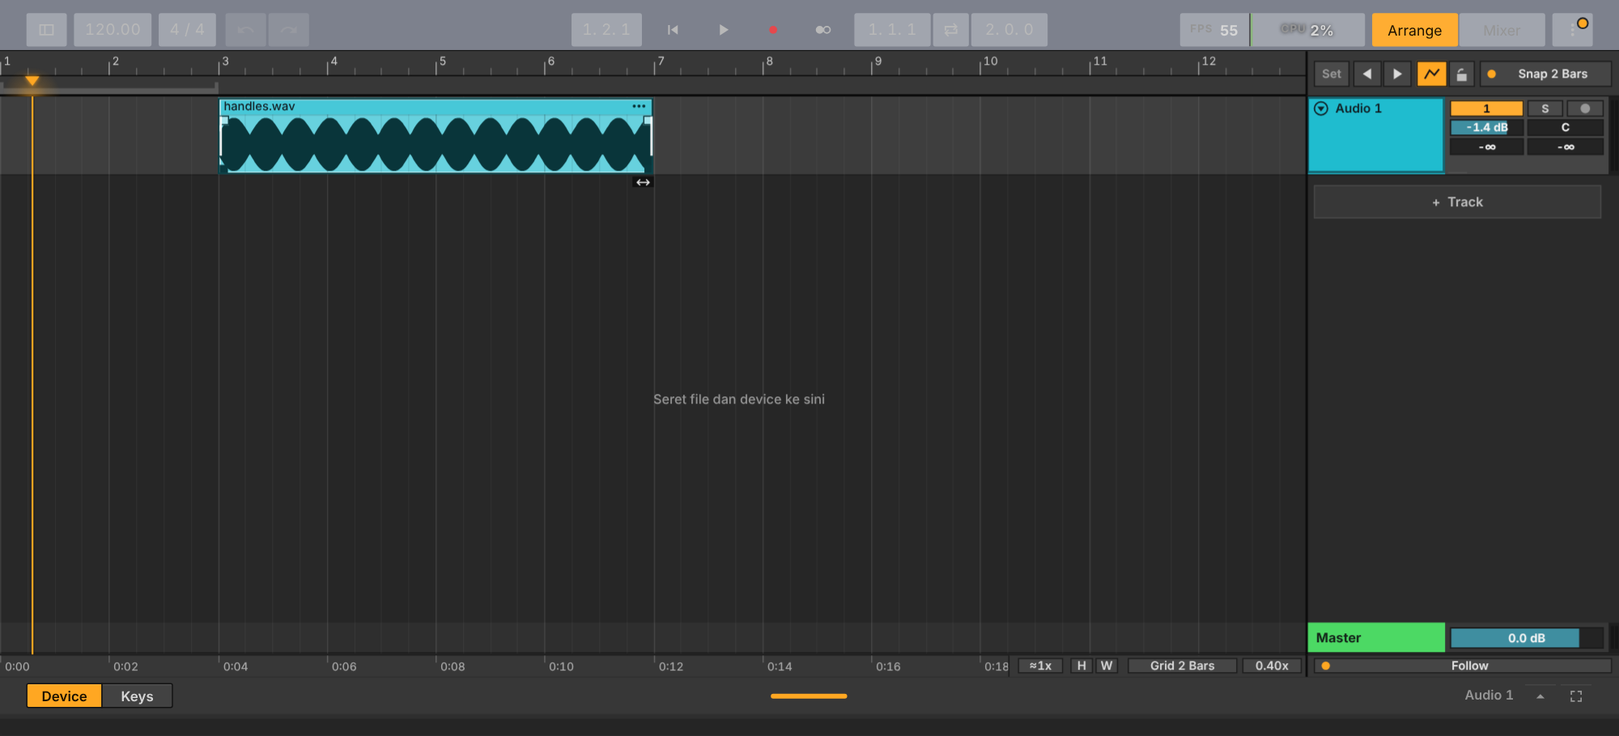
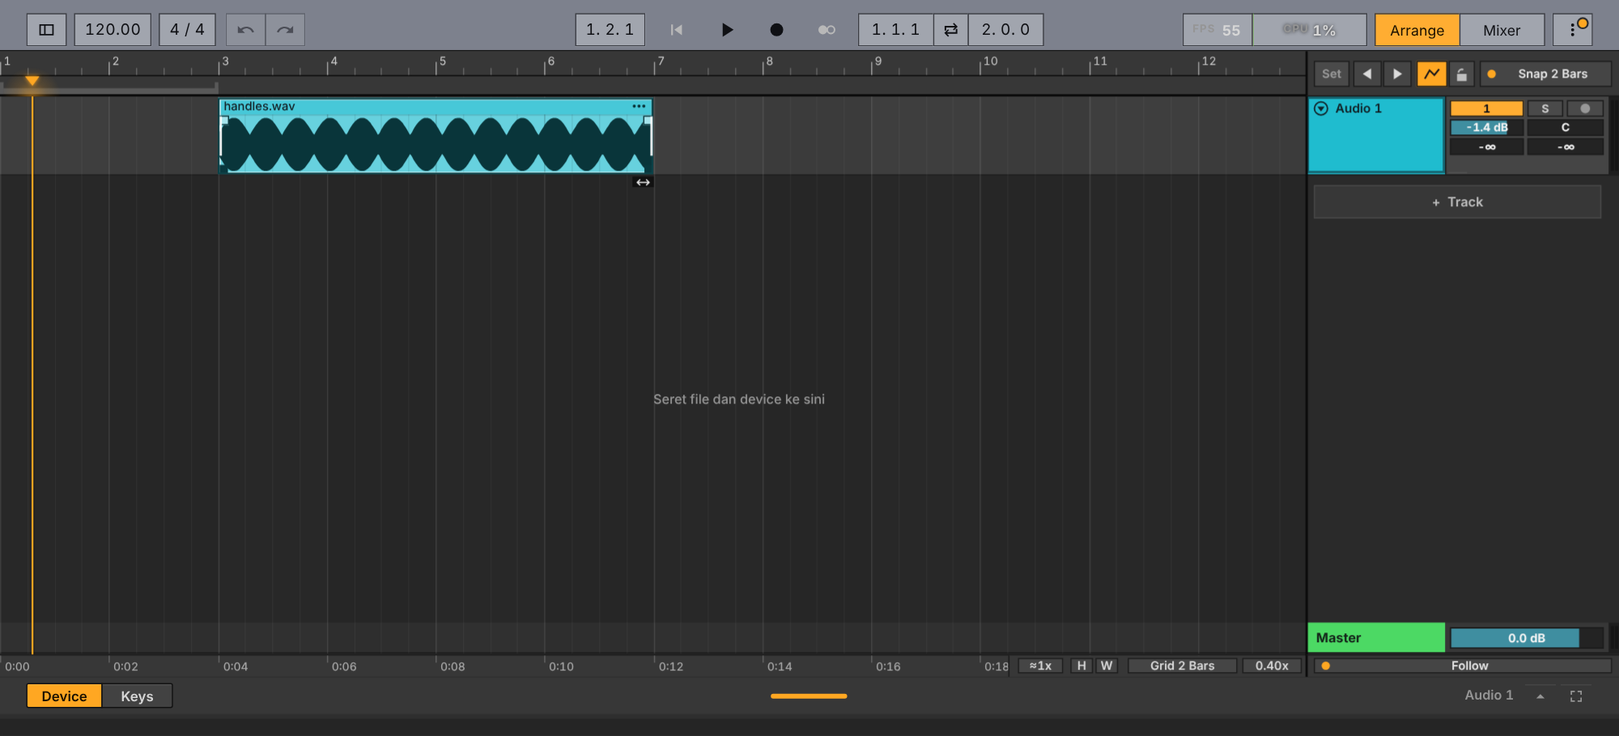
Light theme header and lines sampled from Live 12 light; Live 12 control bar fields in dark and light
Claude-Session: https://claude.ai/code/session_016R99TjSh2G5U2VqVgMNHhT

diff --git a/js/timeline.js b/js/timeline.js
@@ -358,13 +358,13 @@ function draw() {
     ctx.fillStyle = state.sel.track === i ? C('#333337') : state.tracks[i].kind === 'auto' ? C('#262628') : C('#2a2a2c'); ctx.fillRect(0, y, CW, h);   // automation lanes a shade darker (Live)
     const sn = subN(state.tracks[i]);
     if (sn) { const mh = rhMain(i), sh = SUBH(), L = P.subsOf(state.tracks[i]); for (let k = 0; k < sn; k++) { const sy = y + mh + k * sh; ctx.fillStyle = C('#262628'); ctx.fillRect(0, sy, CW, sh); if (L[k].mute) { ctx.fillStyle = 'rgba(0,0,0,.18)'; ctx.fillRect(0, sy, CW, sh); } ctx.fillStyle = C('#1a1a1c'); ctx.fillRect(0, sy - 1, CW, 1); } }   // sub-track rows: a shade darker, a thin line above each
-    ctx.fillStyle = C('#141416'); ctx.fillRect(0, y + h - 1, CW, 1);                     // Live 12 (refs/live12-official): a thin dark line between tracks
+    ctx.fillStyle = HD('--hd-line', '#141416'); ctx.fillRect(0, y + h - 1, CW, 1);                     // Live 12 (refs/live12-official): a thin dark line between tracks
   }
   const xl = [];                                                                       // captions of the Master / effect lanes, drawn after the grid
   for (const i of visRows()) { if (i < n || i >= nn) continue;                          // Master / effect track rows: no clips, they only mix
     const y = rowY(i), h = rh(i), x = xInfo(i);
     ctx.fillStyle = state.sel.track === x.strip ? C('#2f2f33') : C('#252527'); ctx.fillRect(0, y, CW, h);   // theme background first, so the tint below is a real transparent wash in dark AND light themes
-     ctx.fillStyle = C('#141415'); ctx.fillRect(0, y + h - 1, CW, 1);
+     ctx.fillStyle = HD('--hd-line', '#141415'); ctx.fillRect(0, y + h - 1, CW, 1);
     const src = x.master ? state.tracks.filter((q) => q.kind !== 'auto' && !q.mute).length : state.tracks.filter((q) => q.out === x.k && !q.mute).length;
     xl.push({ y, h, t: `${src} track aktif → ${x.name}` });
   }
@@ -631,35 +631,37 @@ function foldTri(cx, cy, folded, col) {        // Live 12 fold toggle: a ring wi
   else { ctx.moveTo(cx - 3, cy - 1.5); ctx.lineTo(cx + 3, cy - 1.5); ctx.lineTo(cx, cy + 2.5); }
   ctx.closePath(); ctx.fill();
 }
+// header colours: a theme can set them exactly (--hd-* tokens, the light themes sampled from Live 12 light); otherwise the dark design mapped by C()
+const HD = (tok, dark) => T(tok) || C(dark);
 // header button: flat grey with a 1 px border when off, filled with its colour when on (activator yellow, solo blue, arm red)
 function drawBtn(r, label, on, col, quiet) {
-  if (quiet) { ctx.fillStyle = C('#3e3e43'); ctx.fillRect(r.x, r.y, r.w, r.h); ctx.strokeStyle = C('#141415'); ctx.lineWidth = 1; ctx.strokeRect(r.x + 0.5, r.y + 0.5, r.w - 1, r.h - 1);   // quiet switch: only the text lights up (input monitoring is on by default)
-    ctx.fillStyle = on ? col : C('#8b8b92'); ctx.font = FONT(700, 10); ctx.textAlign = 'center'; ctx.textBaseline = 'middle'; ctx.fillText(cut2(label, r.w - 2), r.x + r.w / 2, r.y + r.h / 2 + 0.5); ctx.textAlign = 'left'; return; }
-  ctx.fillStyle = on ? col : C('#3e3e43'); ctx.fillRect(r.x, r.y, r.w, r.h);
-  ctx.strokeStyle = C('#141415'); ctx.lineWidth = 1; ctx.strokeRect(r.x + 0.5, r.y + 0.5, r.w - 1, r.h - 1);
+  if (quiet) { ctx.fillStyle = HD('--hd-fld', '#3e3e43'); ctx.fillRect(r.x, r.y, r.w, r.h); ctx.strokeStyle = HD('--hd-bd', '#141415'); ctx.lineWidth = 1; ctx.strokeRect(r.x + 0.5, r.y + 0.5, r.w - 1, r.h - 1);   // quiet switch: only the text lights up (input monitoring is on by default)
+    ctx.fillStyle = on ? col : HD('--hd-ink2', '#8b8b92'); ctx.font = FONT(700, 10); ctx.textAlign = 'center'; ctx.textBaseline = 'middle'; ctx.fillText(cut2(label, r.w - 2), r.x + r.w / 2, r.y + r.h / 2 + 0.5); ctx.textAlign = 'left'; return; }
+  ctx.fillStyle = on ? col : HD('--hd-fld', '#3e3e43'); ctx.fillRect(r.x, r.y, r.w, r.h);
+  ctx.strokeStyle = HD('--hd-bd', '#141415'); ctx.lineWidth = 1; ctx.strokeRect(r.x + 0.5, r.y + 0.5, r.w - 1, r.h - 1);
   const cx = r.x + r.w / 2, cy = r.y + r.h / 2;
-  if (label === 'arm') { ctx.fillStyle = on ? '#ffffff' : C('#8b8b92'); ctx.beginPath(); ctx.arc(cx, cy, Math.min(4.5, r.h / 2 - 3), 0, 6.2832); ctx.fill(); return; }
+  if (label === 'arm') { ctx.fillStyle = on ? '#ffffff' : HD('--hd-ink', '#8b8b92'); ctx.beginPath(); ctx.arc(cx, cy, Math.min(4.5, r.h / 2 - 3), 0, 6.2832); ctx.fill(); return; }
   if (label === 'aut') {                       // automation: a small breakpoint envelope
-    ctx.strokeStyle = on ? '#15151a' : C('#b4b4ba'); ctx.lineWidth = 1.4; ctx.beginPath(); ctx.moveTo(cx - 6, cy + 4); ctx.lineTo(cx - 2, cy - 3); ctx.lineTo(cx + 2, cy + 1); ctx.lineTo(cx + 6, cy - 4); ctx.stroke(); return;
+    ctx.strokeStyle = on ? '#15151a' : HD('--hd-ink', '#b4b4ba'); ctx.lineWidth = 1.4; ctx.beginPath(); ctx.moveTo(cx - 6, cy + 4); ctx.lineTo(cx - 2, cy - 3); ctx.lineTo(cx + 2, cy + 1); ctx.lineTo(cx + 6, cy - 4); ctx.stroke(); return;
   }
-  ctx.fillStyle = on ? '#15151a' : C('#c8c8cc'); ctx.font = FONT(700, r.fs || (r.h < 16 ? 9 : 10.5)); ctx.textAlign = 'center'; ctx.textBaseline = 'middle';
+  ctx.fillStyle = on ? '#15151a' : HD('--hd-ink', '#c8c8cc'); ctx.font = FONT(700, r.fs || (r.h < 16 ? 9 : 10.5)); ctx.textAlign = 'center'; ctx.textBaseline = 'middle';
   ctx.fillText(cut2(label, r.w - 2), cx, cy + 0.5); ctx.textAlign = 'left';
 }
 // Live's header slider: a dark well, a grey fill up to the value (from the centre for pan) and the value written over it
 function drawSlider(r, frac, label, fromCenter) {
-  ctx.fillStyle = C('#19191a'); ctx.fillRect(r.x, r.y, r.w, r.h);
-  ctx.fillStyle = T('--lv-sel');
+  ctx.fillStyle = HD('--hd-well', '#19191a'); ctx.fillRect(r.x, r.y, r.w, r.h);
+  ctx.fillStyle = T('--hd-vol') || T('--lv-sel');
   if (fromCenter) { const c = r.x + r.w / 2, e = r.x + frac * r.w; if (Math.abs(e - c) >= 1) ctx.fillRect(Math.min(c, e), r.y + 1, Math.abs(e - c), r.h - 2); }
   else ctx.fillRect(r.x + 1, r.y + 1, Math.max(0, frac * (r.w - 2)), r.h - 2);
-  ctx.strokeStyle = C('#141415'); ctx.lineWidth = 1; ctx.strokeRect(r.x + 0.5, r.y + 0.5, r.w - 1, r.h - 1);
+  ctx.strokeStyle = HD('--hd-bd', '#141415'); ctx.lineWidth = 1; ctx.strokeRect(r.x + 0.5, r.y + 0.5, r.w - 1, r.h - 1);
   ctx.font = FONT(700, r.fs || 9.5); ctx.textAlign = 'center'; ctx.textBaseline = 'middle';
-  ctx.fillStyle = C('#f2f2f4'); ctx.fillText(cut2(label, r.w - 4), r.x + r.w / 2, r.y + r.h / 2 + 0.5); ctx.textAlign = 'left';
+  ctx.fillStyle = HD('--hd-vink', '#f2f2f4'); ctx.fillText(cut2(label, r.w - 4), r.x + r.w / 2, r.y + r.h / 2 + 0.5); ctx.textAlign = 'left';
 }
 function drawSwitch(r, label, on, isPressed) {   // Live-style switch: LED + text in a flat field
-  ctx.fillStyle = isPressed ? C('#55555b') : C('#3a3a3e'); ctx.fillRect(r.x, r.y, r.w, r.h);
-  ctx.strokeStyle = C('#141415'); ctx.lineWidth = 1; ctx.strokeRect(r.x + 0.5, r.y + 0.5, r.w - 1, r.h - 1);
+  ctx.fillStyle = isPressed ? HD('--hd-bgsel', '#55555b') : HD('--hd-fld', '#3a3a3e'); ctx.fillRect(r.x, r.y, r.w, r.h);
+  ctx.strokeStyle = HD('--hd-bd', '#141415'); ctx.lineWidth = 1; ctx.strokeRect(r.x + 0.5, r.y + 0.5, r.w - 1, r.h - 1);
   const ly = r.y + r.h / 2; ctx.fillStyle = on ? T('--accent') : C('#55555b'); ctx.beginPath(); ctx.arc(r.x + 10, ly, 3.5, 0, Math.PI * 2); ctx.fill();
-  ctx.fillStyle = on ? C('#e0e0e4') : C('#8b8b92'); ctx.font = FONT(600, 10); ctx.textBaseline = 'middle'; ctx.textAlign = 'center';
+  ctx.fillStyle = on ? HD('--hd-ink', '#e0e0e4') : HD('--hd-ink2', '#8b8b92'); ctx.font = FONT(600, 10); ctx.textBaseline = 'middle'; ctx.textAlign = 'center';
   ctx.fillText(cut2(label, r.w - 24), r.x + r.w / 2 + 6, ly + 0.5); ctx.textAlign = 'left';
 }
 function drawSubHeads(i) {                     // sub-track rows of a track header: a slim colour edge, the name (Steps / Notes) and an activator
@@ -676,7 +678,7 @@ function drawSubHeads(i) {                     // sub-track rows of a track head
 }
 function drawHeads() {
   const hx = CW, n = state.tracks.length, LB = LANE_B();
-  ctx.fillStyle = C('#1f1f21'); ctx.fillRect(hx, 0, HEAD, H);
+  ctx.fillStyle = HD('--hd-bg', '#1f1f21'); ctx.fillRect(hx, 0, HEAD, H);
   ctx.save(); ctx.beginPath(); ctx.rect(hx, RULER, HEAD, LB - RULER); ctx.clip();
   const nn = n + nX(), lanes = new Set();
   for (const q of state.tracks) if (q.kind === 'auto' && q.target) lanes.add(q.target.strip);
@@ -685,14 +687,14 @@ function drawHeads() {
     if (i < n && subN(state.tracks[i])) drawSubHeads(i);
     if (i === nn) {                                                                          // "+" row: one wide button
       const r = { x: hx + 6, y: y + 8, w: HEAD - METW - 12, h: Math.min(28, h - 16) };
-      ctx.fillStyle = C('#2c2c2f'); ctx.fillRect(r.x, r.y, r.w, r.h); ctx.strokeStyle = C('#3c3c41'); ctx.lineWidth = 1; ctx.strokeRect(r.x + 0.5, r.y + 0.5, r.w - 1, r.h - 1);
-      ctx.fillStyle = C('#b4b4ba'); ctx.font = FONT(600, 11); ctx.textBaseline = 'middle'; ctx.textAlign = 'center'; ctx.fillText('+  Track', r.x + r.w / 2, r.y + r.h / 2 + 0.5); ctx.textAlign = 'left';
+      ctx.fillStyle = HD('--hd-bg', '#2c2c2f'); ctx.fillRect(r.x, r.y, r.w, r.h); ctx.strokeStyle = HD('--hd-bd', '#3c3c41'); ctx.lineWidth = 1; ctx.strokeRect(r.x + 0.5, r.y + 0.5, r.w - 1, r.h - 1);
+      ctx.fillStyle = HD('--hd-ink', '#b4b4ba'); ctx.font = FONT(600, 11); ctx.textBaseline = 'middle'; ctx.textAlign = 'center'; ctx.fillText('+  Track', r.x + r.w / 2, r.y + r.h / 2 + 0.5); ctx.textAlign = 'left';
       continue;
     }
-    const meterWell = () => { ctx.fillStyle = C('#161617'); ctx.fillRect(hx + HEAD - METW, y, METW, h - 1); ctx.fillStyle = C('#101011'); ctx.fillRect(hx + HEAD - METW + 2, y + 3, 2.5, h - 7); ctx.fillRect(hx + HEAD - METW + 5.5, y + 3, 2.5, h - 7); };
+    const meterWell = () => { ctx.fillStyle = HD('--hd-mw', '#161617'); ctx.fillRect(hx + HEAD - METW, y, METW, h - 1); ctx.fillStyle = HD('--hd-mb', '#101011'); ctx.fillRect(hx + HEAD - METW + 2, y + 3, 2.5, h - 7); ctx.fillRect(hx + HEAD - METW + 5.5, y + 3, 2.5, h - 7); };
     if (i >= n) {                                                                            // Master / effect track header
       const x = xInfo(i), on = state.sel.track === x.strip, fx = !x.master, rt = fx ? state.returns[x.k] : null, r = xhdr(i), nw = nameW(), ik = ink(x.color);
-      ctx.fillStyle = on ? C('#3a3a3e') : C('#2c2c2f'); ctx.fillRect(hx, y, HEAD, h - 1);
+      ctx.fillStyle = on ? HD('--hd-bgsel', '#3a3a3e') : HD('--hd-bg', '#2c2c2f'); ctx.fillRect(hx, y, HEAD, h - 1);
       ctx.fillStyle = x.color; ctx.fillRect(hx, y, nw, h - 1);                                           // the whole name block in the colour, as in Live
       ctx.fillStyle = ik; ctx.font = FONT(700, 11); ctx.textBaseline = 'middle'; ctx.fillText(cut2(x.name, nw - 14), hx + 8, y + (h - 1) / 2 + 0.5);   // thin row like Live's return / main tracks: name centred
       if (fx) drawBtn(r.act, x.k < 2 ? 'AB'[x.k] : 'F' + (x.k - 1), !rt.mute, T('--mute'));
@@ -701,16 +703,17 @@ function drawHeads() {
         if (vr - vx > 30) drawSlider({ x: vx, y: r.act.y, w: vr - vx, h: r.act.h, fs: 10 }, Math.sqrt(clamp(vol / VMAX, 0, 1)), dbTxt(vol) + ' dB', false);
       }
       meterWell();
-      ctx.fillStyle = C('#141415'); ctx.fillRect(hx, y + h - 1, HEAD, 1);
+      ctx.fillStyle = HD('--hd-line', '#141415'); ctx.fillRect(hx, y + h - 1, HEAD, 1);
       continue;
     }
     let t = state.tracks[i]; if (rh(i) < 2) continue; { const tc = tone(t.color); if (tc !== t.color) t = { __proto__: t, color: tc }; }
     const on = state.sel.track === i, r = hdr(i), auto = t.kind === 'auto';
     const nw = r.nw, ik = auto ? C('#d0d0d4') : ink(t.color), fullLook = full();
-    ctx.fillStyle = on ? C('#3a3a3e') : C('#2c2c2f'); ctx.fillRect(hx, y, HEAD, h - 1);                    // selected track: the mixer column a step lighter
+    ctx.fillStyle = on ? HD('--hd-bgsel', '#3a3a3e') : HD('--hd-bg', '#2c2c2f'); ctx.fillRect(hx, y, HEAD, h - 1);                    // selected track: the mixer column a step lighter
     const par = auto && t.target ? state.tracks.find((q) => q.kind !== 'auto' && P.stripOf(state.tracks.indexOf(q)) === t.target.strip) : null;
     if (auto) { ctx.fillStyle = C('#323236'); ctx.fillRect(hx, y, nw, h - 1); ctx.fillStyle = tone(par ? par.color : t.color); ctx.fillRect(hx, y, 4, h - 1); }   // Live 12: an automation lane's header is grey, a stripe in its track's colour
     else { ctx.fillStyle = t.color; ctx.fillRect(hx, y, nw, h - 1); }                                     // the whole name block in the track colour, as in Live
+    if (fullLook) { ctx.fillStyle = HD('--hd-line', '#141415'); ctx.fillRect(hx + nw, y, 1, h - 1); }   // Live: a thin dark line between the name block and the mixer column
     if (t.mute) { ctx.fillStyle = 'rgba(30,30,34,.35)'; ctx.fillRect(hx, y, nw, h - 1); }                  // deactivated track: the block dims
     if (on) { ctx.strokeStyle = ik; ctx.globalAlpha = 0.55; ctx.lineWidth = 2; ctx.strokeRect(hx + 1, y + 1, nw - 2, h - 4); ctx.globalAlpha = 1; }   // selected: an inner outline
     foldTri(hx + 12, y + r.th / 2, !!t.fold, ik);
@@ -723,32 +726,32 @@ function drawHeads() {
     if (r.aut) drawBtn(r.aut, 'aut', lanes.has(t.id), T('--accent'));
     if (auto && fullLook && h >= 46) { const pr = state.tracks.find((q) => q.kind !== 'auto' && t.target && P.stripOf(state.tracks.indexOf(q)) === t.target.strip); ctx.fillStyle = ik; ctx.globalAlpha = 0.7; ctx.font = FONT(400, 9.5); ctx.textBaseline = 'middle'; ctx.fillText(cut2(pr ? pr.name : 'Otomasi', nw - 16), hx + 10, y + TH + 10); ctx.globalAlpha = 1; }   // the track it automates, under the parameter
     if (r.out) {                                                                                           // output: a dark field in the mixer column, the destination written in it
-      ctx.fillStyle = C('#19191a'); ctx.fillRect(r.out.x, r.out.y, r.out.w, r.out.h); ctx.strokeStyle = C('#141415'); ctx.lineWidth = 1; ctx.strokeRect(r.out.x + 0.5, r.out.y + 0.5, r.out.w - 1, r.out.h - 1);
-      ctx.fillStyle = C('#f2f2f4'); ctx.font = FONT(700, r.out.fs || 9.5); ctx.textAlign = 'center'; ctx.fillText(cut2(P.outLabel(t.out), r.out.w - 16), r.out.x + (r.out.w - 10) / 2, r.out.y + r.out.h / 2 + 0.5); ctx.textAlign = 'left';
-      ctx.fillStyle = C('#8b8b92'); { const cy = r.out.y + r.out.h / 2, q = Math.max(2.5, Math.min(4, r.out.h * 0.2)), cx = r.out.x + r.out.w - 4 - q; ctx.beginPath(); ctx.moveTo(cx - q, cy - q * 0.6); ctx.lineTo(cx + q, cy - q * 0.6); ctx.lineTo(cx, cy + q * 0.7); ctx.closePath(); ctx.fill(); }
+      ctx.fillStyle = HD('--hd-well', '#19191a'); ctx.fillRect(r.out.x, r.out.y, r.out.w, r.out.h); ctx.strokeStyle = HD('--hd-line', '#141415'); ctx.lineWidth = 1; ctx.strokeRect(r.out.x + 0.5, r.out.y + 0.5, r.out.w - 1, r.out.h - 1);
+      ctx.fillStyle = HD('--hd-vink', '#f2f2f4'); ctx.font = FONT(700, r.out.fs || 9.5); ctx.textAlign = 'center'; ctx.fillText(cut2(P.outLabel(t.out), r.out.w - 16), r.out.x + (r.out.w - 10) / 2, r.out.y + r.out.h / 2 + 0.5); ctx.textAlign = 'left';
+      ctx.fillStyle = HD('--hd-ink2', '#8b8b92'); { const cy = r.out.y + r.out.h / 2, q = Math.max(2.5, Math.min(4, r.out.h * 0.2)), cx = r.out.x + r.out.w - 4 - q; ctx.beginPath(); ctx.moveTo(cx - q, cy - q * 0.6); ctx.lineTo(cx + q, cy - q * 0.6); ctx.lineTo(cx, cy + q * 0.7); ctx.closePath(); ctx.fill(); }
     }
     if (r.vol) drawSlider(r.vol, Math.sqrt(clamp(t.vol / VMAX, 0, 1)), dbTxt(t.vol) + ' dB', false);
     if (r.pan) drawSlider(r.pan, (clamp(t.pan, -1, 1) + 1) / 2, panTxt(t.pan), true);
     for (const [k, rc] of [[0, r.sa], [1, r.sb]]) if (rc) { const v = (t.send && t.send[k]) || 0; drawSlider(rc, v, dbTxt(v), false); }   // Live: the sends as bare dB values (-inf at zero), A over B by position
     if (r.hm) {                                                                            // folded row: horizontal meter well (two thin lanes, L over R)
-      ctx.fillStyle = C('#161617'); ctx.fillRect(r.hm.x, r.hm.y, r.hm.w, r.hm.h);
-      const lh = Math.max(1.5, (r.hm.h - 3) / 2); ctx.fillStyle = C('#101011'); ctx.fillRect(r.hm.x + 2, r.hm.y + 1, r.hm.w - 4, lh); ctx.fillRect(r.hm.x + 2, r.hm.y + 2 + lh, r.hm.w - 4, lh);
-    } else if (!auto) meterWell(); else { ctx.fillStyle = C('#161617'); ctx.fillRect(hx + HEAD - METW, y, METW, h - 1); }
-    ctx.fillStyle = C('#141416'); ctx.fillRect(hx, y + h - 1, HEAD, 1);                  // the same thin line as the lane
+      ctx.fillStyle = HD('--hd-mw', '#161617'); ctx.fillRect(r.hm.x, r.hm.y, r.hm.w, r.hm.h);
+      const lh = Math.max(1.5, (r.hm.h - 3) / 2); ctx.fillStyle = HD('--hd-mb', '#101011'); ctx.fillRect(r.hm.x + 2, r.hm.y + 1, r.hm.w - 4, lh); ctx.fillRect(r.hm.x + 2, r.hm.y + 2 + lh, r.hm.w - 4, lh);
+    } else if (!auto) meterWell(); else { ctx.fillStyle = HD('--hd-mw', '#161617'); ctx.fillRect(hx + HEAD - METW, y, METW, h - 1); }
+    ctx.fillStyle = HD('--hd-line', '#141416'); ctx.fillRect(hx, y + h - 1, HEAD, 1);                  // the same thin line as the lane
     if (!t.fold && h >= MIN_ROW && (on || (drag && drag.k === 'rowh' && drag.i === i))) { ctx.fillStyle = drag && drag.k === 'rowh' && drag.i === i ? T('--accent') : C('#46464c'); ctx.fillRect(hx + (HEAD - METW) / 2 - 8, y + h - 3, 16, 1); }   // grip of the selected track: drag the bottom edge = row height
   }
   ctx.restore();
-  ctx.fillStyle = C('#08080a'); ctx.fillRect(hx - 1, 0, 2, H);                                // line between clip area and headers
+  ctx.fillStyle = HD('--hd-line', '#08080a'); ctx.fillRect(hx - 1, 0, 2, H);                                // line between clip area and headers
   // top corner: Snap switch (tap: snap, follow, select / fold options)
-  ctx.fillStyle = C('#2c2c2f'); ctx.fillRect(hx + 1, 0, HEAD - 1, RULER); ctx.fillStyle = C('#141415'); ctx.fillRect(hx, RULER - 1, HEAD, 1);
-  { const q = cornerRects(), tri = (r, dir) => { const cx = r.x + r.w / 2, cy = r.y + r.h / 2; ctx.fillStyle = C('#d4d4d8'); ctx.beginPath(); ctx.moveTo(cx - 4 * dir, cy); ctx.lineTo(cx + 3 * dir, cy - 4.5); ctx.lineTo(cx + 3 * dir, cy + 4.5); ctx.closePath(); ctx.fill(); };
-    drawBtn(q.set, 'Set', false, null, pressed !== 'locset'); for (const [r, ty, dir] of [[q.prev, 'locprev', 1], [q.next, 'locnext', -1]]) { ctx.fillStyle = pressed === ty ? C('#55555b') : C('#3a3a3e'); ctx.fillRect(r.x, r.y, r.w, r.h); ctx.strokeStyle = C('#141415'); ctx.lineWidth = 1; ctx.strokeRect(r.x + 0.5, r.y + 0.5, r.w - 1, r.h - 1); tri(r, dir); } }
+  ctx.fillStyle = HD('--hd-bg', '#2c2c2f'); ctx.fillRect(hx + 1, 0, HEAD - 1, RULER); ctx.fillStyle = HD('--hd-line', '#141415'); ctx.fillRect(hx, RULER - 1, HEAD, 1);
+  { const q = cornerRects(), tri = (r, dir) => { const cx = r.x + r.w / 2, cy = r.y + r.h / 2; ctx.fillStyle = HD('--hd-ink', '#d4d4d8'); ctx.beginPath(); ctx.moveTo(cx - 4 * dir, cy); ctx.lineTo(cx + 3 * dir, cy - 4.5); ctx.lineTo(cx + 3 * dir, cy + 4.5); ctx.closePath(); ctx.fill(); };
+    drawBtn(q.set, 'Set', false, null, pressed !== 'locset'); for (const [r, ty, dir] of [[q.prev, 'locprev', 1], [q.next, 'locnext', -1]]) { ctx.fillStyle = pressed === ty ? HD('--hd-bgsel', '#55555b') : HD('--hd-bgsel', '#3a3a3e'); ctx.fillRect(r.x, r.y, r.w, r.h); ctx.strokeStyle = HD('--hd-line', '#141415'); ctx.lineWidth = 1; ctx.strokeRect(r.x + 0.5, r.y + 0.5, r.w - 1, r.h - 1); tri(r, dir); } }
   { const q = cornerRects(); if (q.auto.w) drawBtn(q.auto, 'aut', autoMode(), T('--accent'));
     if (q.lock.w) { const r = q.lock, on = lockEnv(); drawBtn(r, '', on, T('--accent')); const cx = r.x + r.w / 2, cy = r.y + r.h / 2 + 1; ctx.strokeStyle = on ? '#15151a' : C('#b4b4ba'); ctx.fillStyle = ctx.strokeStyle; ctx.lineWidth = 1.4;   // Live's Lock Envelopes: a padlock
       ctx.fillRect(cx - 4, cy - 1, 8, 6); ctx.beginPath(); ctx.arc(cx, cy - 2, 2.8, Math.PI, on ? 0 : -0.35 * Math.PI); ctx.stroke(); } }
   drawSwitch(snapRect(), HEAD > 260 ? 'Snap ' + SNAPS[cfg.snap][0] : SNAPS[cfg.snap][0], cfg.snap !== SNAP_OFF, pressed === 'corner');
   // bottom corner: Follow switch (the arrangement scrolls with the playhead)
-  ctx.fillStyle = C('#2c2c2f'); ctx.fillRect(hx + 1, H - BOT, HEAD - 1, BOT); ctx.fillStyle = C('#141415'); ctx.fillRect(hx, H - BOT, HEAD, 1);
+  ctx.fillStyle = HD('--hd-bg', '#2c2c2f'); ctx.fillRect(hx + 1, H - BOT, HEAD - 1, BOT); ctx.fillStyle = HD('--hd-line', '#141415'); ctx.fillRect(hx, H - BOT, HEAD, 1);
   drawSwitch(followRect(), 'Follow', cfg.follow, pressed === 'follow');
 }
 

diff --git a/sw.js b/sw.js
@@ -1,5 +1,5 @@
 // Offline cache. The cache name contains a hash of every file, so a new deploy replaces the old cache automatically.
-const CACHE = 'mobiledaw-3d413d44ba2b';
+const CACHE = 'mobiledaw-4315fbcce3b2';
 const ASSETS = ["./", "./css/app.css", "./css/ableton.css", "./css/float.css", "./css/live.css", "./icons/icon-192.png", "./icons/icon-512.png", "./icons/icon-maskable-512.png", "./index.html", "./js/about.js", "./js/aboutdata.js", "./js/audioedit.js", "./js/autocurve.js", "./js/automate.js", "./js/autosave.js", "./js/browser.js", "./js/chords.js", "./js/colorpick.js", "./js/defs.js", "./js/demos.js", "./js/devices.js", "./js/devviz.js", "./js/drumpad.js", "./js/edgeguard.js", "./js/editor.js", "./js/engine.js", "./js/engine/analog.js", "./js/engine/audioops.js", "./js/engine/cmdtext.js", "./js/engine/core.js", "./js/engine/dsp.js", "./js/engine/drift.js", "./js/engine/ds.js", "./js/engine/fx.js", "./js/engine/fx2.js", "./js/engine/fx3.js", "./js/engine/fx4.js", "./js/engine/fx5.js", "./js/engine/fx6.js", "./js/engine/fx7.js", "./js/engine/fx8.js", "./js/engine/granulator.js", "./js/engine/impulse.js", "./js/engine/instruments.js", "./js/engine/live.js", "./js/engine/meld.js", "./js/engine/meter.js", "./js/engine/mp3.js", "./js/engine/mp3tables.js", "./js/engine/nativesink.js", "./js/engine/operator.js", "./js/engine/phys.js", "./js/engine/poli.js", "./js/engine/sabio.js", "./js/engine/sf2.js", "./js/engine/simpler.js", "./js/engine/flmsyn.js", "./js/engine/hdgms.js", "./js/engine/hdmfx.js", "./js/engine/hdmini.js", "./js/engine/hdsaw.js", "./js/engine/smf.js", "./js/engine/stretchworker.js", "./js/engine/tmap.js", "./js/engine/wav.js", "./js/engine/waveops.js", "./js/engine/mdaw.wasm", "./js/engine/wasmengine.js", "./js/engine/web.js", "./js/engine/worklet-wasm.js", "./js/engine/worklet.js", "./js/floatwin.js", "./js/fps.js", "./js/fxviz.js", "./js/fxkit.js", "./js/flmpanels.js", "./js/flmfx.js", "./js/flm3osc.js", "./js/flmlayout.js", "./js/flmlive.js", "./js/slicerdetect.js", "./js/fxlaw.js", "./js/flmviz.js", "./js/gesture.js", "./js/history.js", "./js/import/als.js", "./js/import/build.js", "./js/import/flm.js", "./js/import/flp.js", "./js/import/fxmap.js", "./js/import/gm.js", "./js/import/index.js", "./js/import/ui.js", "./js/keymap.js", "./js/keys.js", "./js/layout.js", "./js/liveinst.js", "./js/liveui.js", "./js/log.js", "./js/main.js", "./js/midi.js", "./js/midiio.js", "./js/minimeters.js", "./js/mmdraw.js", "./js/native.js", "./js/perf.js", "./js/mixer.js", "./js/prefs.js", "./js/presetlib.js", "./js/presets.js", "./js/project.js", "./js/projects.js", "./js/pwa.js", "./js/quicksave.js", "./js/reorder.js", "./js/safdir.js", "./js/settingsui.js", "./js/storage.js", "./js/tempo.js", "./js/theme.js", "./js/timeline.js", "./js/topbar.js", "./js/touchhit.js", "./js/ui.js", "./js/uiscale.js", "./js/waveform.js", "./js/zip.js", "./manifest.json"];
 self.addEventListener('install', (e) => { e.waitUntil(caches.open(CACHE).then((c) => c.addAll(ASSETS)).then(() => self.skipWaiting())); });
 self.addEventListener('activate', (e) => {

diff --git a/js/theme.js b/js/theme.js
@@ -16,8 +16,8 @@ const LIB = {
   medc:     { name: 'Dark Neutral Medium Contrast', base: 'dark', a: 10, b: 0.98 },
   // Live 12's default dark theme (refs/live12-official 01-03): the greys a little lighter and cool - lanes about #2c2e35, panels #23252a
   // Live 12's light theme (refs/live12-official 04): cool greys - lanes / ruler / header #a1a5ae, the alternate bands #989ca5
-  live12light: { name: 'Light (Live 12)', base: 'light', a: -33, b: 1.0, tint: [0, 4, 13], over: { '--line': '#5c5f68', '--sep': '#6e717a' } },
-  live12:   { name: 'Dark (Live 12)', base: 'dark', a: 10, b: 0.96, tint: [-2, 0, 12], over: { '--tb-bg': '#282a33', '--tb-fld': '#333540' } },   // lanes / ruler #323440 as sampled from refs/live12-official/02
+  live12light: { name: 'Light (Live 12)', base: 'light', a: -33, b: 1.0, tint: [0, 4, 13], over: { '--line': '#3a3c43', '--sep': '#55585f', '--tb-bg': '#7d818d', '--tb-fld': '#a1a5ae', '--hd-bg': '#a1a5ae', '--hd-bgsel': '#b4b8c1', '--hd-fld': '#d2d4da', '--hd-ink': '#0f1014', '--hd-ink2': '#0f1014', '--hd-bd': '#3a3c43', '--hd-line': '#3a3c43', '--hd-well': '#e1e2e7', '--hd-vol': '#05c9d9', '--hd-vink': '#0f1014', '--hd-mw': '#a1a5ae', '--hd-mb': '#3a3c43', '--tb-line': '#3a3c43', '--tb-ico': '#0f1014' } },
+  live12:   { name: 'Dark (Live 12)', base: 'dark', a: 10, b: 0.96, tint: [-2, 0, 12], over: { '--tb-bg': '#272a33', '--tb-fld': '#333541', '--tb-line': '#1c1e25', '--tb-ico': '#d4d5db' } },   // lanes / ruler #323440 as sampled from refs/live12-official/02
   lightmc:  { name: 'Light Neutral Medium Contrast', base: 'light', a: -26, b: 1.04 },
   lightlc:  { name: 'Light Neutral Low Contrast', base: 'light', a: -8, b: 0.86 },
   midlight: { name: 'Mid Light',                base: 'light', a: -42, b: 1.0 },
@@ -29,7 +29,7 @@ const LIB = {
   ableton:  { name: 'Light (Ableton Live)',  base: 'light', a: -33, b: 1.0, tint: [0, 4, 13], over: {
     '--lv-title': '#bbbbc5', '--lv-body': '#a1a5ae', '--lv-well': '#21252e', '--lv-ctl': '#b9bcc5', '--lv-ctl2': '#c6c9d1', '--lv-ink': '#0f1014', '--lv-dim': '#2e3038', '--lv-edge': '#7d818d',
     '--lv-trk': '#4e525c', '--lv-div': '#7d818d', '--lv-arc': '#05c9d9', '--lv-or': '#fdb443', '--lv-orink': '#1a1100', '--dim': '#2e3038', '--text': '#0f1014',
-    '--menu': '#dedfe3', '--tb-bg': '#7d818d', '--tb-fld': '#a1a5ae', '--line': '#5c5f68', '--sep': '#6e717a' } },
+    '--menu': '#dedfe3', '--tb-bg': '#7d818d', '--tb-fld': '#a1a5ae', '--line': '#3a3c43', '--sep': '#55585f', '--hd-bg': '#a1a5ae', '--hd-bgsel': '#b4b8c1', '--hd-fld': '#d2d4da', '--hd-ink': '#0f1014', '--hd-ink2': '#0f1014', '--hd-bd': '#3a3c43', '--hd-line': '#3a3c43', '--hd-well': '#e1e2e7', '--hd-vol': '#05c9d9', '--hd-vink': '#0f1014', '--hd-mw': '#a1a5ae', '--hd-mb': '#3a3c43', '--tb-line': '#3a3c43', '--tb-ico': '#0f1014' } },
 };
 const grey = (hex) => { const h = hex.slice(1, 7), [r, g, b] = [0, 2, 4].map((i) => parseInt(h.slice(i, i + 2), 16)); return Math.max(r, g, b) - Math.min(r, g, b) < 14 ? (r + g + b) / 3 : -1; };
 for (const [id, t] of Object.entries(LIB)) {

diff --git a/css/ableton.css b/css/ableton.css
@@ -1796,3 +1796,16 @@ html.reduce-motion .lk-tabpg, html.reduce-motion .flm-pg > *, html.reduce-motion
 /* Light theme (Live 12 light reference): every toolbar field / button carries a thin dark outline */
 [data-theme="light"] #top .b.ic, [data-theme="light"] #top .grp .b, [data-theme="light"] #top .readout, [data-theme="light"] #top-l #rd-bpm,
 [data-theme="light"] #top .perf, [data-theme="light"] #top .seg .b { box-shadow: inset 0 0 0 1px var(--line); }
+/* Live 12 control bar, both themes (refs/live12-official 01 dark, 04 light): square flat fields with a thin near-black outline, neighbours
+   share one border, the transport is bare icons (no field), record a grey circle until armed */
+#top .b.ic, #top .grp .b, #top .readout, #top-l #rd-bpm, #top .perf, #top .seg .b { border-radius: 0 !important; box-shadow: inset 0 0 0 1px var(--tb-line, #1c1e25) !important; }
+#top .grp.hist, #top .grp.lvloop, #top .seg { gap: 0 !important; }
+#top .grp.hist .b + .b, #top .grp.lvloop > * + *, #top .seg .b + .b { margin-left: -1px !important; }
+#top .tport, #top .tport .b { background: transparent !important; box-shadow: none !important; }
+#top .tport { gap: 2px !important; }
+#top .tport .b { color: var(--tb-ico, var(--text)); }
+#top .tport .b svg { width: 18px; height: 18px; }
+#top .tport #btn-rec:not(.on) { color: var(--tb-ico, var(--text)); }
+#top .b.ic:not(.on):not(.tport *), #top .readout, #top-l #rd-bpm, #top .seg .b:not(.on) { color: var(--tb-ico, var(--text)); }
+#top .tport #btn-rec:not(.on) svg { fill: currentColor; } #top .tport #btn-rec.on svg { fill: var(--rec); }
+#top .tport #btn-rec svg { width: 26px; height: 26px; } #top .tport #btn-play svg { width: 20px; height: 20px; }

diff --git a/docs/HANDOFF.md b/docs/HANDOFF.md
@@ -779,3 +779,5 @@ Permintaan pemilik: SEMUA efek dan instrumen diganti dengan set stok Ableton Liv
 - `fxlaw.js menuItem` kini membandingkan dengan breakpoint f32 (`f(b)`): breakpoint dicetak sebagai f32 terpendek (0.7 = 0.699999988). Modul tambahan Honeydew (bukan FLM) sengaja tidak diport (keputusan pemilik).
 - Tema terang = warna sampel dari referensi Live 12 light (pemilik 2026-11-16): toolbar `--tb-bg #7d818d` dengan field `--tb-fld #a1a5ae`, lane/header/body device #a1a5ae, judul device #bbbbc5, display #21252e, menu #dedfe3. Border tipis gelap: `--line #5c5f68`, `--sep #6e717a` (canvas memetakan garis lewat anchor `--line`), field toolbar memakai `box-shadow: inset 0 0 0 1px var(--line)` (css/ableton.css).
 - Arrangement seperti Live 12: area "Seret file dan device ke sini" (baris "+", indeks nn) melebar mengisi ruang kosong di bawah track, baris Master / FX menempel di dasar lane, grid berlanjut sampai bawah. Urutan di layar: track, baris "+", Master/FX (tidak urut indeks) — pakai `rowY`/`rowAt`/`visRows()` di timeline.js, jangan menjumlah `rh()` sendiri. Tombol "+ Track" hanya bagian atas baris itu.
+- Header track + garis tema terang = Live 12 light (pemilik 2026-11-16, "border abu-abu cenderung hitam"): token `--hd-*` di theme.js (bg #a1a5ae, field #d2d4da, border/garis #3a3c43, volume #05c9d9 di atas #e1e2e7, teks #0f1014); timeline.js `HD(token, warnaGelap)` memakai token bila tema punya, selain itu warna gelap lama lewat C(). Garis tipis antara blok nama dan kolom mixer.
+- Control bar (dua tema): field persegi dengan outline tipis `--tb-line` (gelap #1c1e25, terang #3a3c43), tetangga berbagi satu border, transport = ikon polos tanpa kotak (rekam lingkaran abu/hitam, merah saat aktif). arr-live-test kini memeriksa radius 0.
